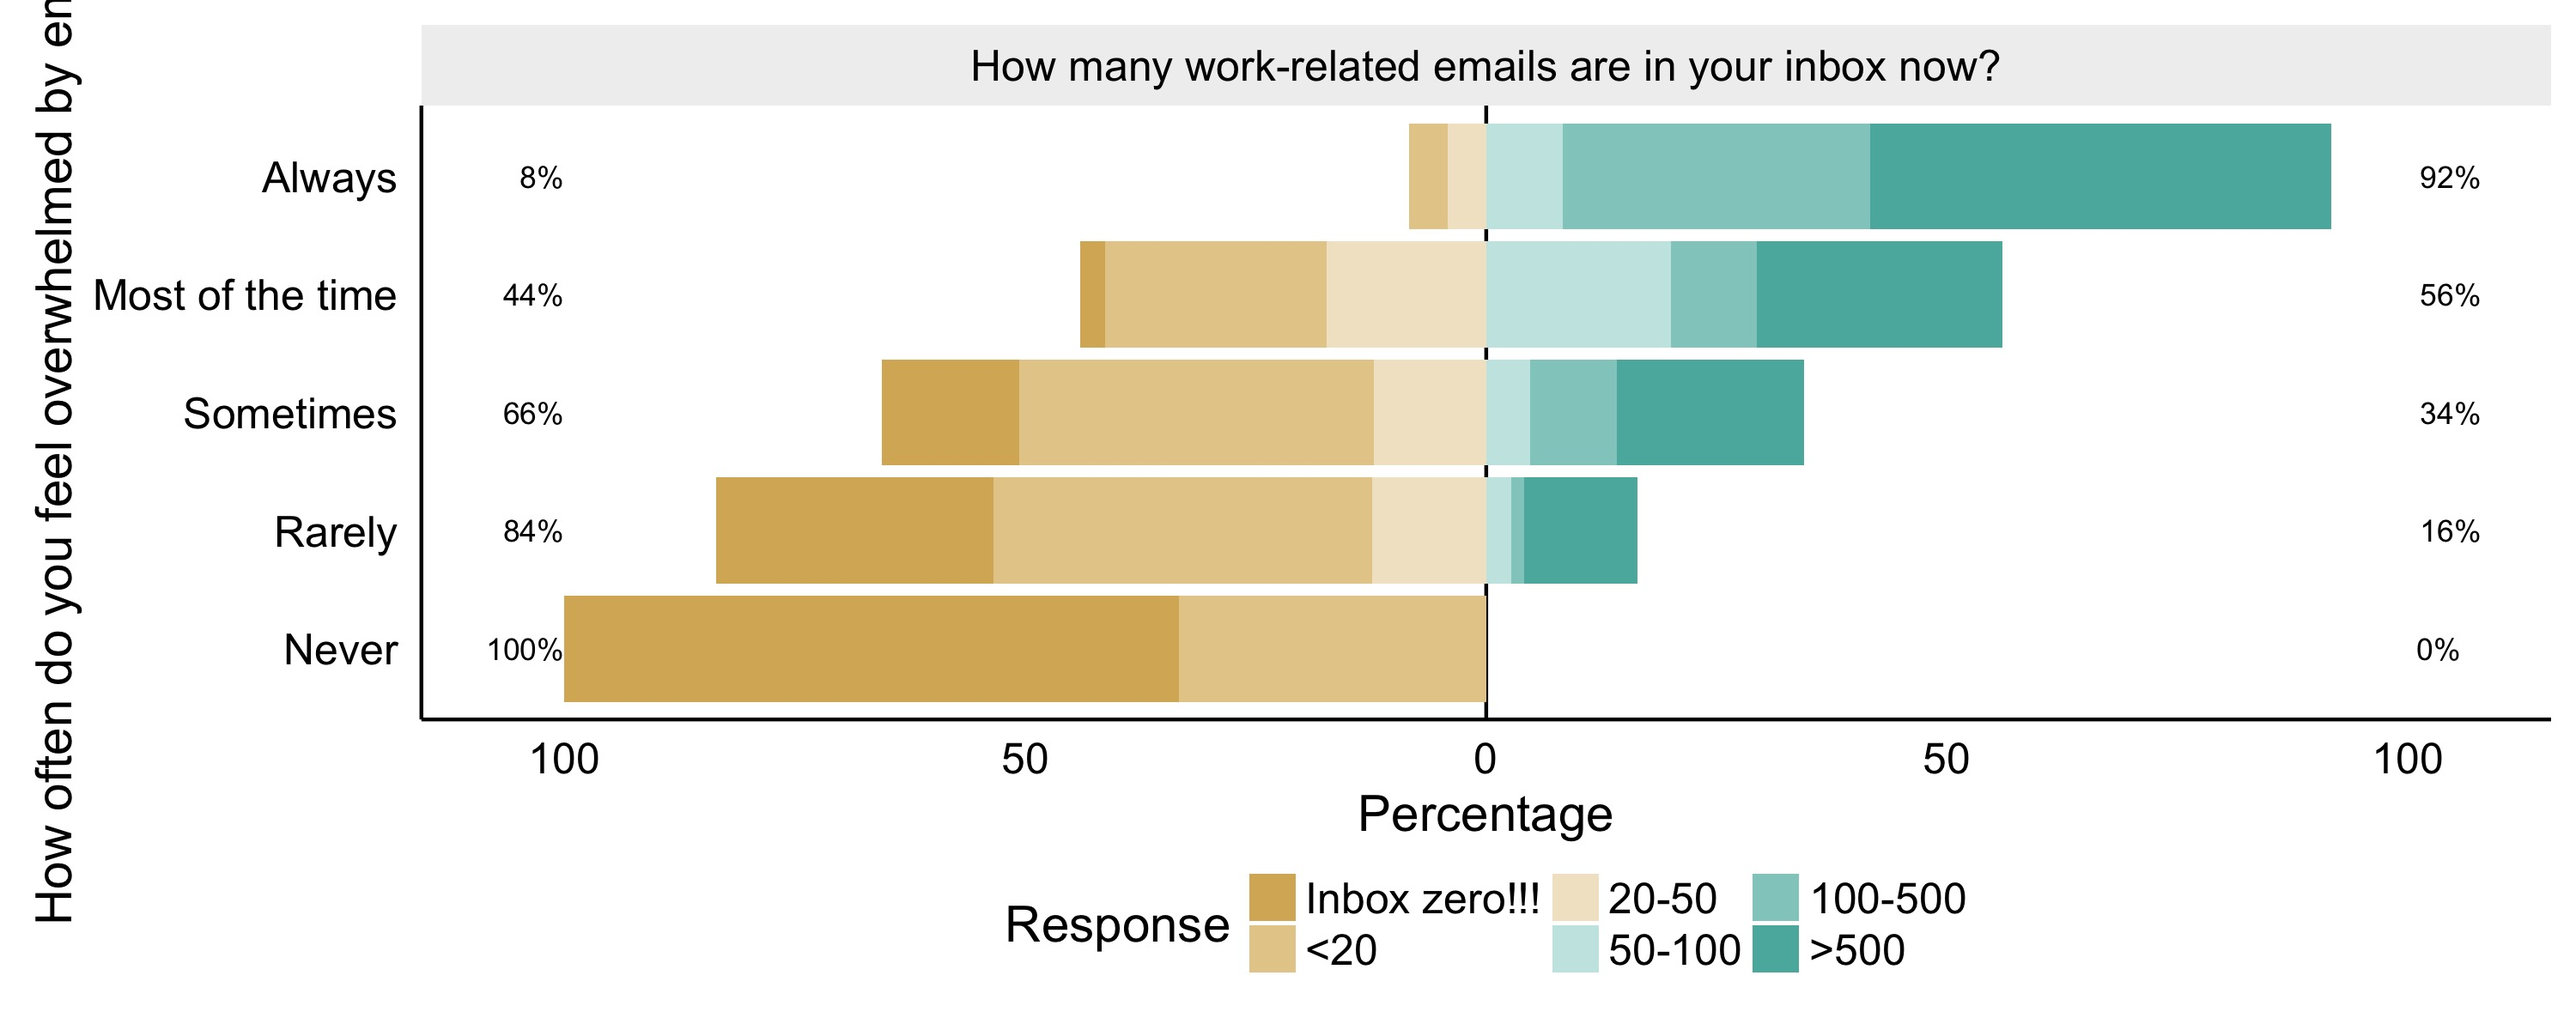
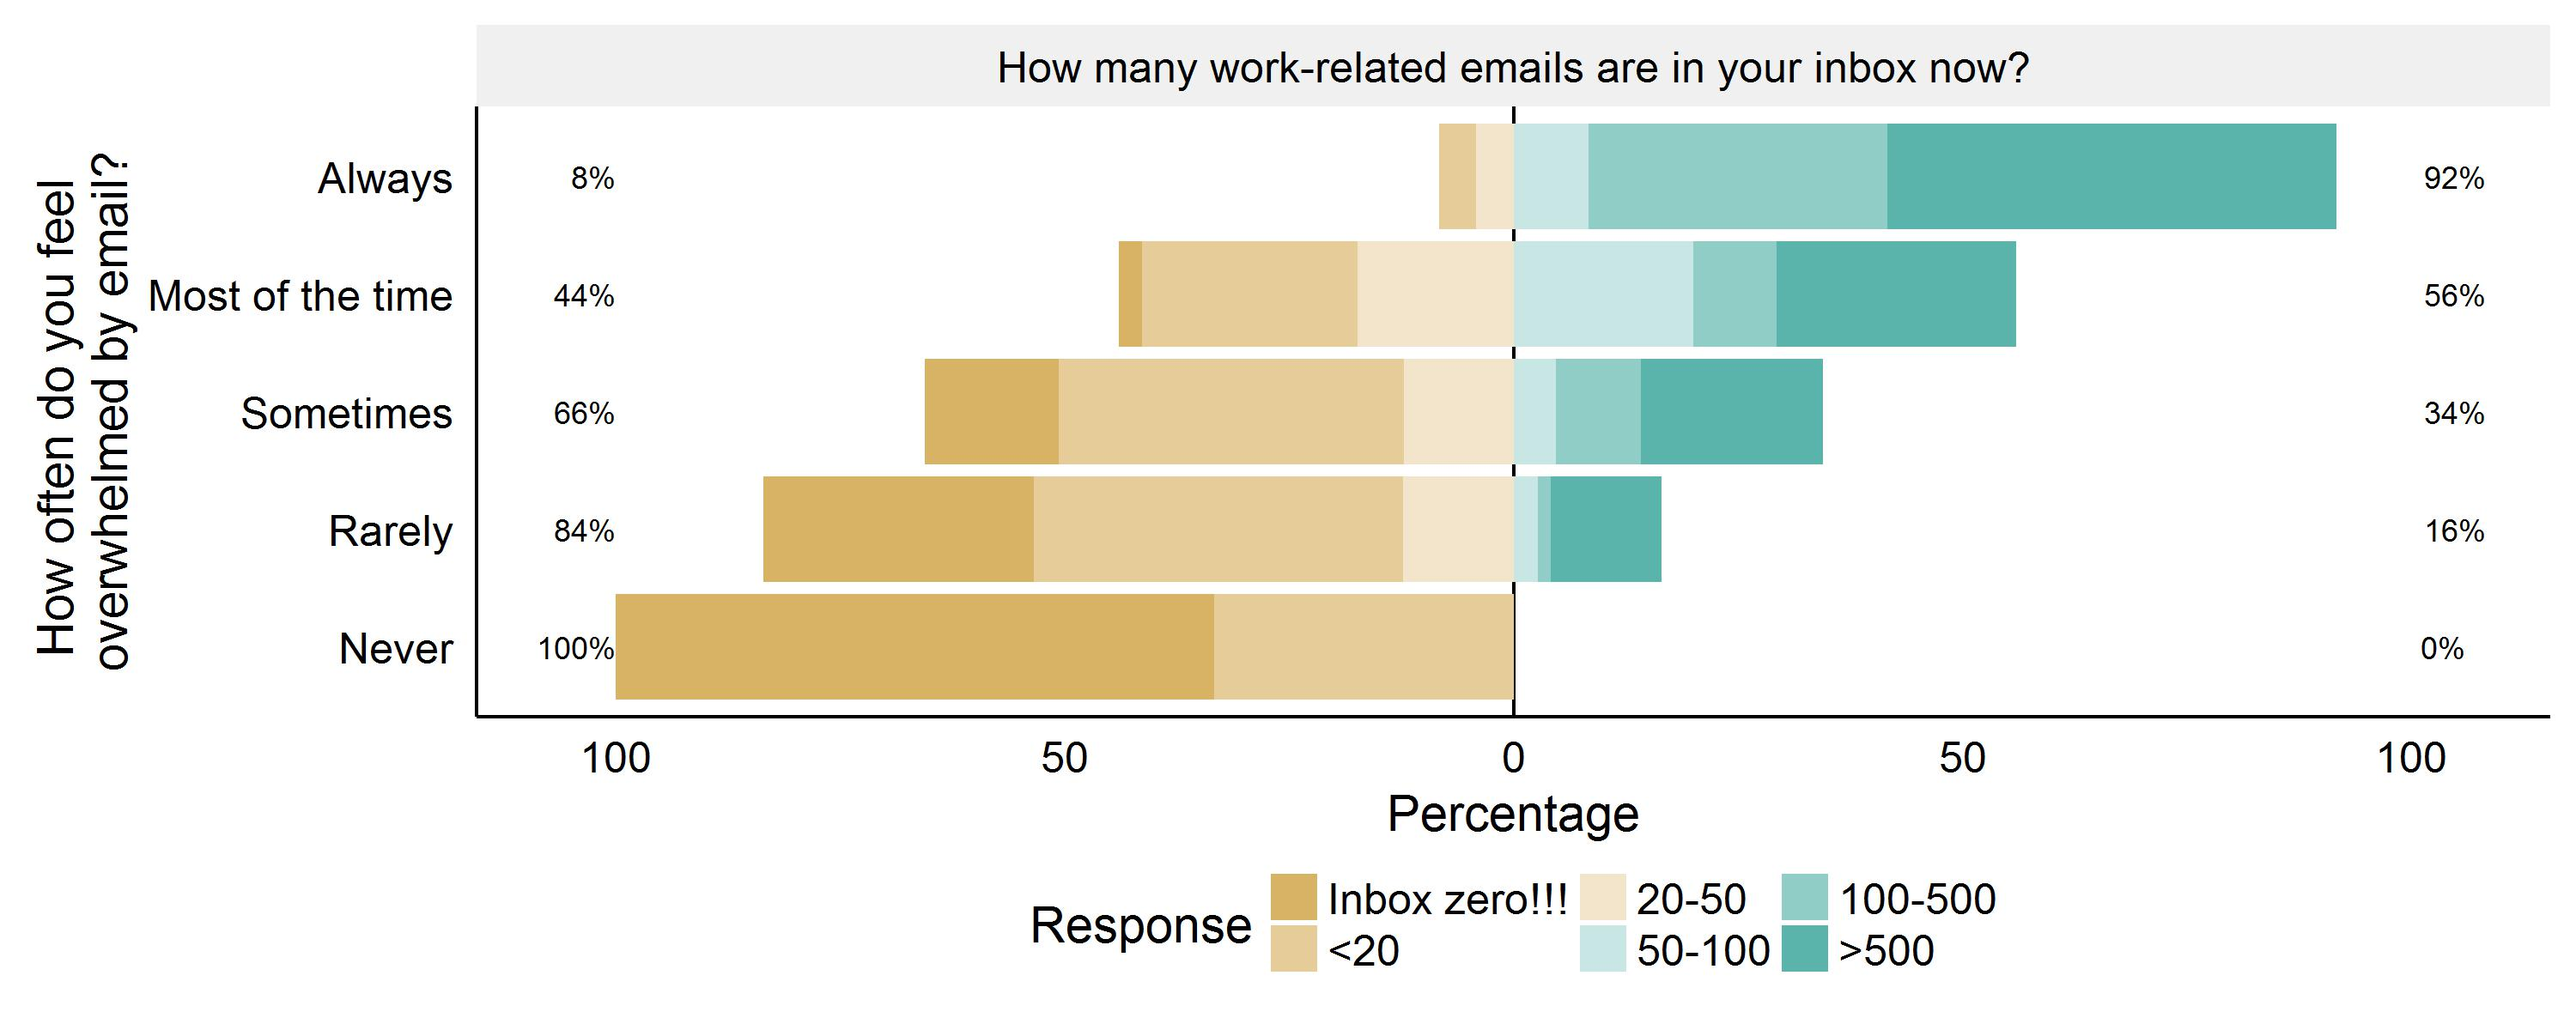
fixing likert_13 label, adding code related to different career paths

diff --git a/DEemailpoll.md b/DEemailpoll.md
@@ -484,13 +484,13 @@ currentdata_grouping <-
   select(TargetEmails, Overwhelmed, CurrentPosition, Age) 
 
 currentdata_grouping$TargetEmails <- factor(currentdata_grouping$TargetEmails, 
-                                            c("Inbox zero!!!", 
-                                              "<20", 
-                                              "20-50",
-                                              "50-100",
-                                              "100-500", 
-                                              ">500",
-                                              "I don't care how many emails are in my inbox"))
+                                      c("Inbox zero!!!",
+                                        "<20",
+                                        "20-50",
+                                        "50-100",
+                                        "100-500",
+                                        ">500",
+                                        "I don't care how many emails are in my inbox"))
 
 currentdata_grouping$Overwhelmed <- factor(currentdata_grouping$Overwhelmed, 
                                             c("Never", 
@@ -507,10 +507,34 @@ currentdata_grouping$CurrentPosition <- factor(currentdata_grouping$CurrentPosit
                                               "Full professor"))
 
 likert_11 <- likert(currentdata, grouping = currentdata_grouping$CurrentPosition)
-plot(likert_11)
+likert_11plot <- plot(likert_11)
+save_plot("likert_11.jpg", likert_11plot, base_height = 4, base_width = 10)
+likert_11plot
 ```
 
 ![](DEemailpoll_files/figure-markdown_github/Likert%20cross%20tabs%20on%20current%20email%20data-1.png)
+
+``` r
+
+## this next plot isn't ordering correctly. Need to figure that out.
+likert_12 <- likert(currentdata, grouping = currentdata_grouping$TargetEmails)
+likert_12plot <- plot(likert_12)
+save_plot("likert_12.jpg", likert_12plot, base_height = 4, base_width = 10)
+likert_12plot
+```
+
+![](DEemailpoll_files/figure-markdown_github/Likert%20cross%20tabs%20on%20current%20email%20data-2.png)
+
+``` r
+
+## this next plot would benefit from having "How often do you feel overwhelmed by email?" on the y-axis to explain the grouping variable.
+likert_13 <- likert(currentdata, grouping = currentdata_grouping$Overwhelmed)
+likert_13plot <- plot(likert_13) + xlab("How often do you feel \noverwhelmed by email?")
+save_plot("likert_13.jpg", likert_13plot, base_height = 4, base_width = 10)
+likert_13plot
+```
+
+![](DEemailpoll_files/figure-markdown_github/Likert%20cross%20tabs%20on%20current%20email%20data-3.png)
 
 ``` r
 targetdata <-
@@ -562,10 +586,32 @@ targetdata_grouping$CurrentPosition <- factor(targetdata_grouping$CurrentPositio
                                               "Full professor"))
 
 likert_21 <- likert(targetdata, grouping = targetdata_grouping$CurrentPosition)
-plot(likert_21)
+likert_21plot <- plot(likert_21)
+save_plot("likert_21.jpg", likert_21plot, base_height = 4, base_width = 10)
+likert_21plot
 ```
 
 ![](DEemailpoll_files/figure-markdown_github/Likert%20cross%20tabs%20on%20target%20email%20data-1.png)
+
+``` r
+
+likert_22 <- likert(targetdata, grouping = targetdata_grouping$CurrentEmails)
+likert_22plot <- plot(likert_22)
+save_plot("likert_22.jpg", likert_22plot, base_height = 4, base_width = 10)
+likert_22plot
+```
+
+![](DEemailpoll_files/figure-markdown_github/Likert%20cross%20tabs%20on%20target%20email%20data-2.png)
+
+``` r
+
+likert_23 <- likert(targetdata, grouping = targetdata_grouping$Overwhelmed)
+likert_23plot <- plot(likert_23)
+save_plot("likert_23.jpg", likert_23plot, base_height = 4, base_width = 10)
+likert_23plot
+```
+
+![](DEemailpoll_files/figure-markdown_github/Likert%20cross%20tabs%20on%20target%20email%20data-3.png)
 
 ``` r
 overwhelmeddata <-
@@ -617,7 +663,36 @@ overwhelmeddata_grouping$CurrentPosition <- factor(overwhelmeddata_grouping$Curr
                                               "Full professor"))
 
 likert_31 <- likert(overwhelmeddata, grouping = overwhelmeddata_grouping$CurrentPosition)
-plot(likert_31)
+likert_31plot <- plot(likert_31)
+save_plot("likert_31.jpg", likert_31plot, base_height = 4, base_width = 10)
+likert_31plot
 ```
 
 ![](DEemailpoll_files/figure-markdown_github/Likert%20analysis%20of%20overwhelmed%20question-1.png)
+
+``` r
+# First, make a new variable that splits these out
+diffpathdata <- subset(emaildata, CurrentPosition == "AssistantProfessor" | CurrentPosition == "Associate professor" | CurrentPosition == "Full professor" | CurrentPosition == "Research scientist in government" | CurrentPosition == "Research scientist in academia" | CurrentPosition == "Research scientist in industry" | CurrentPosition == "Scientist at an NGO/non-profit" | CurrentPosition == "Other government position")
+
+diffpathdata$path <- ifelse(diffpathdata$CurrentPosition == "AssistantProfessor" | diffpathdata$CurrentPosition == "Associate professor" | diffpathdata$CurrentPosition == "Full professor" | diffpathdata$CurrentPosition == "Research scientist in academia", "academia",
+                            ifelse(diffpathdata$CurrentPosition == "Research scientist in government" | diffpathdata$CurrentPosition == "Other government position", "government",
+                            ifelse(diffpathdata$CurrentPosition == "Scientist at an NGO/non-profit", "nonprofit","industry"
+                            )))
+
+PathSampleSize <-
+  diffpathdata %>%
+  group_by(path) %>%
+  summarise(n=n())
+
+PathSampleSize
+#> Source: local data frame [4 x 2]
+#> 
+#>         path     n
+#>        (chr) (int)
+#> 1   academia   114
+#> 2 government    23
+#> 3   industry     4
+#> 4  nonprofit    13
+
+#hmm, small sample sizes. Not sure it would be useful to compare them, unfortunately.
+```
